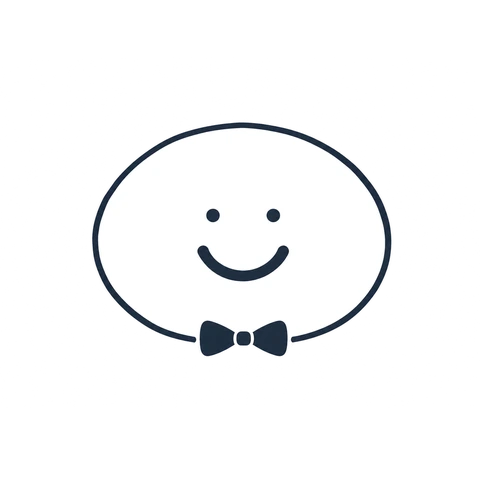
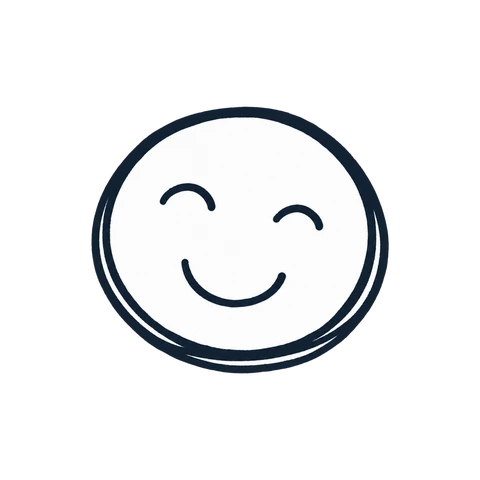
feat: 이직특공대 2기 임원 멘토 캐릭터 이미지 교체와 프로필 배경색 변경

Changed region(s): [[0.1875, 0.2188, 0.8438, 0.7812], [0.3125, 0.375, 0.4688, 0.4688], [0.5312, 0.4062, 0.6875, 0.5]]

diff --git a/sprint/finance/finance.css b/sprint/finance/finance.css
@@ -235,7 +235,7 @@ main .btn svg { width: 18px; height: 18px; }
 /* ---------- 멘토 ---------- */
 .mentors-grid { display: grid; grid-template-columns: 1fr 1fr; gap: 20px; margin-top: 48px; align-items: start; }
 .mentor { background: var(--white); border: 1.5px solid var(--ink); border-radius: 24px; padding: 32px; display: flex; gap: 24px; align-items: flex-start; }
-.mentor .avatar { flex: none; width: 96px; height: 96px; border-radius: 50%; border: 2px solid var(--ink); background: var(--orange-soft); display: grid; place-items: center; color: var(--muted); overflow: hidden; }
+.mentor .avatar { flex: none; width: 96px; height: 96px; border-radius: 50%; border: 2px solid var(--ink); background: #FFA088; display: grid; place-items: center; color: var(--muted); overflow: hidden; }
 .mentor .avatar img { width: 100%; height: 100%; object-fit: cover; }
 .mentor .avatar img.char { object-fit: contain; }
 .mentor .co { font-family: var(--mono); font-size: 12px; font-weight: 700; color: var(--orange); }
